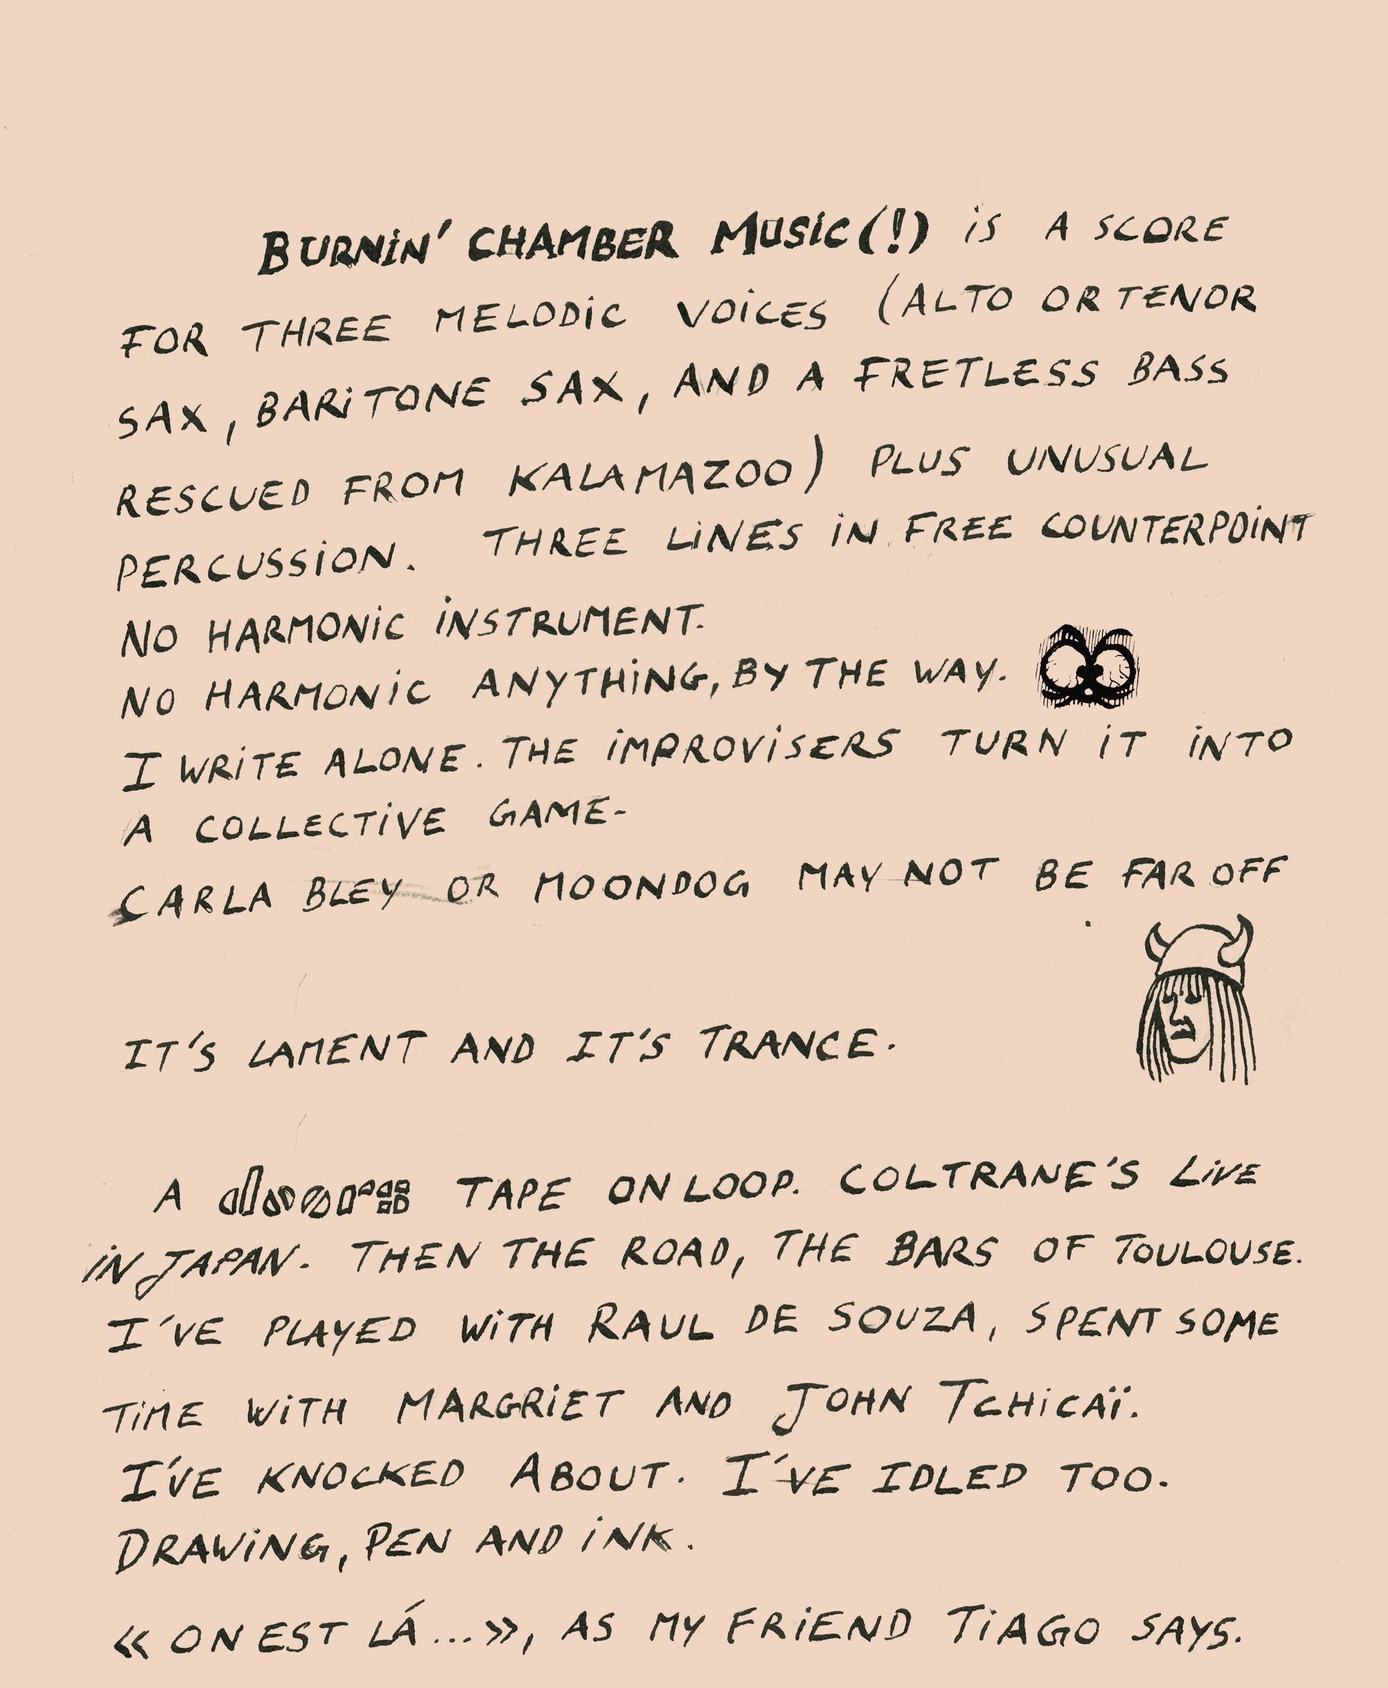
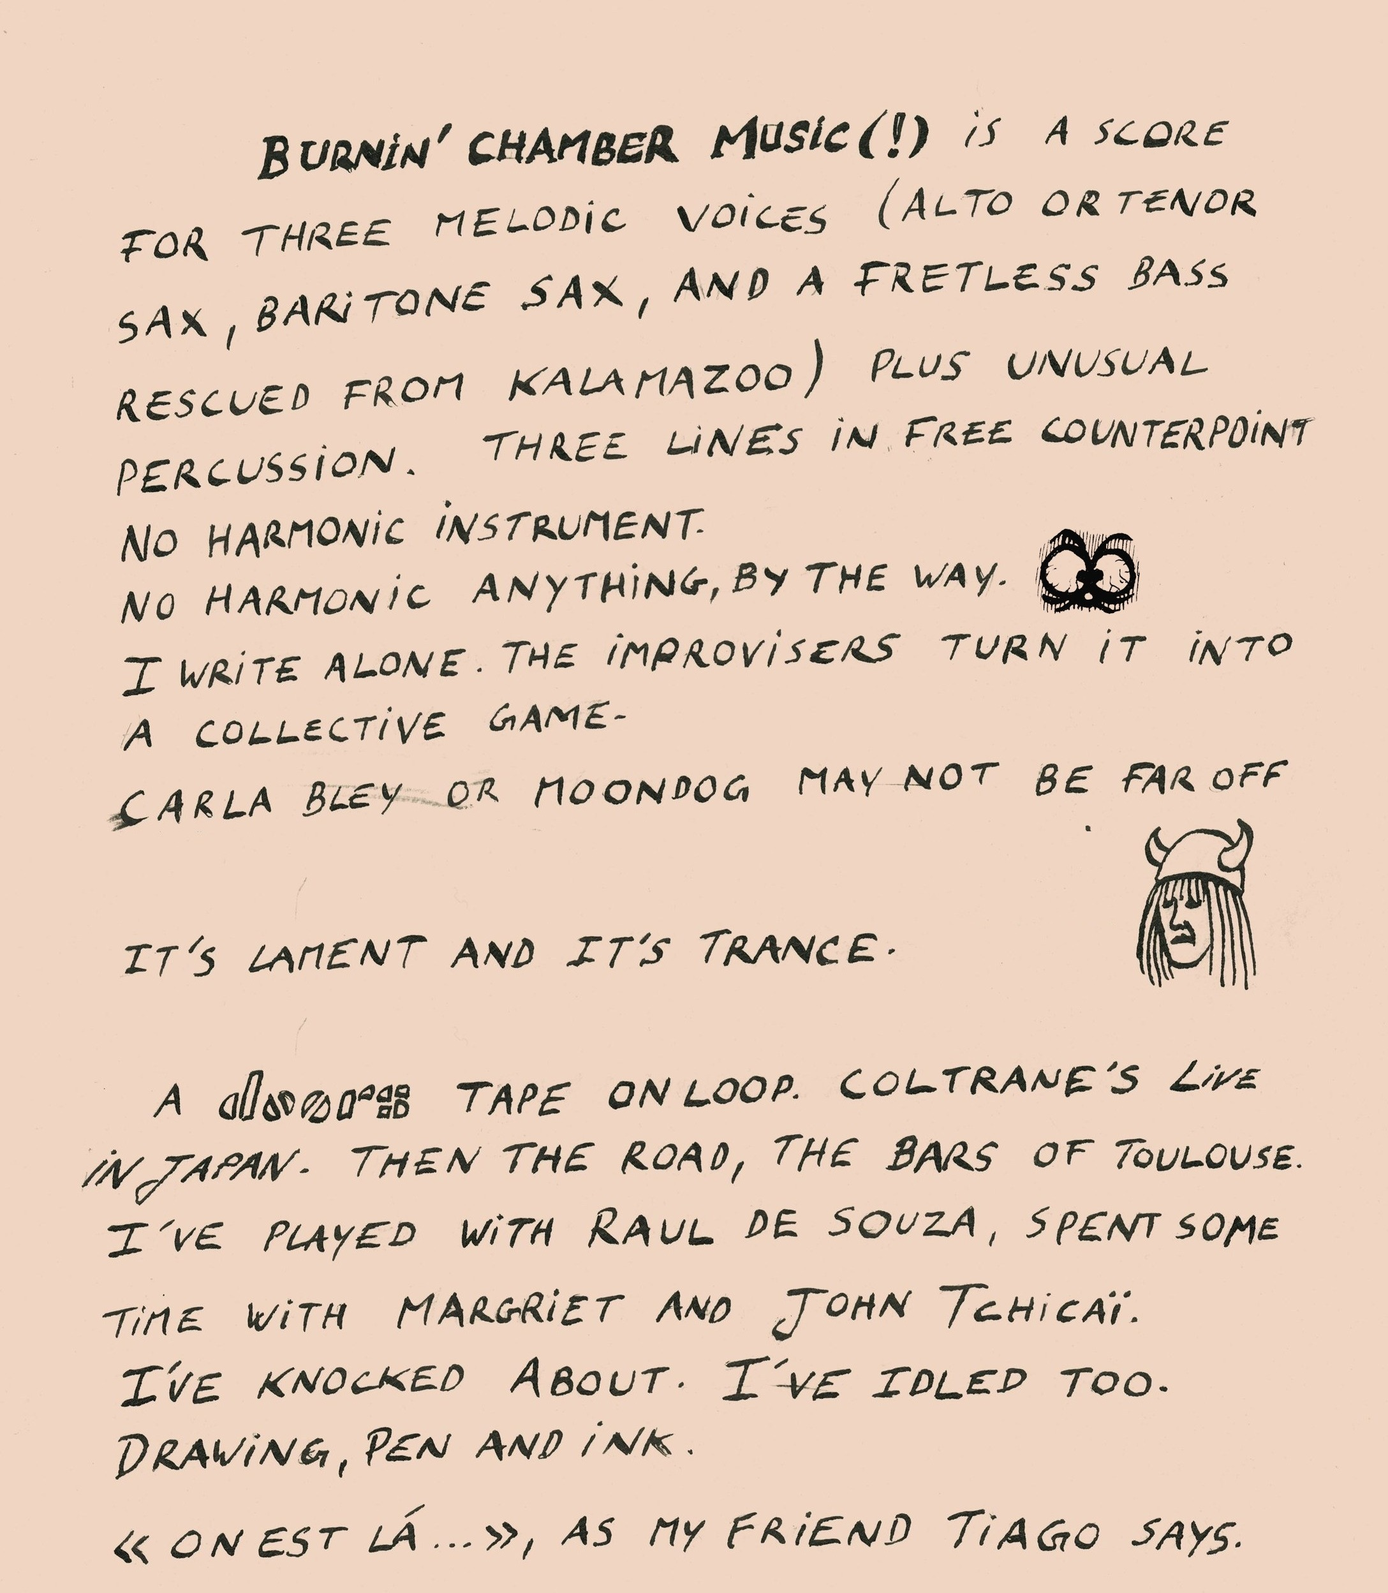
Make the frame fit on mobile without scrolling (not just "reachable by scroll")
- Tightened nav.menu on mobile (badges 42->30px, index badge 56->40px,
  tighter gap/padding) - directly requested, frees up real room for
  the frame above the fixed bandeau
- Re-measured real nav height after tightening and recalibrated every
  padding-bottom / .frame-page dvh-cap tier from it (breakpoints now
  320/456px, matching actual wrap points)
- Fixed a cascade bug: the new .frame-page height-cap rules had the
  same selector/specificity as the pre-existing base rule but came
  BEFORE it in the file, so the base rule silently won on source
  order and the cap never applied - moved the cap rules after it
- Generalized the dvh-based frame-page height cap (previously
  comodoro-page only) to every page with a frise, since comodoro's
  nav height turned out to match the generic tiers almost exactly
  once tightened - dropped the now-redundant comodoro-specific
  duplicate rules
- Converted a few mobile image caps (contact-art, codex-art-mobile)
  from vw to cqw so they keep scaling with the frame once its size
  depends on viewport height, not just width - this was causing
  internal frame-content overflow once the frame started actually
  shrinking
- Trimmed argumentum.jpg's oversized top margin (~150px) and nudged
  contact-page's mobile spacing tighter for the same reason
- audio.html keeps its old (uncapped) sizing: its custom player has
  fixed-pixel controls that can't shrink to frame-fit without
  breaking, so that one page still scrolls on short screens -
[…]

diff --git a/styles.css b/styles.css
@@ -56,30 +56,35 @@ nav.menu a:hover, nav.menu a:focus-visible { opacity: .6; }
 }
 
 @media (max-width: 640px) {
-  /* le bandeau (inchangé, forme et couleurs d'origine) peut s'étaler sur
-     plusieurs lignes sur un petit écran ; on réserve assez de place en bas
-     de page pour qu'il ne cache jamais le contenu, quel que soit le nombre
-     de lignes sur lesquelles il s'étale, même tout en bas de page (le
-     cadre doit rester intégralement visible au scroll). Paliers et
-     valeurs mesurés directement (hauteur réelle de nav.menu, pire cas sur
-     les 5 pages contact/codex/audio/video/agenda) à chaque largeur de
-     320 à 640px, + ~15px de marge - les seuils précédents (361/540px,
-     210/160px) ne correspondaient pas aux vrais points de repli de la
-     nav et laissaient jusqu'à 33px de bandeau recouvrir le bas du cadre
-     même après un scroll complet. */
-  body:has(nav.menu) { padding-bottom: 365px; }
-  /* "BACK TO INDEX" est nettement plus grand que les autres badges du
-     bandeau ; sur petit écran ça prend trop de place en hauteur. */
-  nav.menu a[href^="index"] img { height: 56px; }
+  /* bandeau resserré sur mobile : on veut que le cadre tienne au-dessus
+     sans scroller, donc moins le bandeau prend de place, plus c'est
+     possible. Badges et espacement réduits par rapport au desktop. */
+  nav.menu { gap: .35rem; padding: .5rem; }
+  nav.menu a img { height: 30px; }
+  nav.menu a[href^="index"] img { height: 40px; }
 }
-@media (min-width: 338px) and (max-width: 640px) {
-  body:has(nav.menu) { padding-bottom: 260px; }
+
+@media (max-width: 640px) {
+  /* le bandeau (resserré ci-dessus) peut encore s'étaler sur plusieurs
+     lignes sur un petit écran ; on réserve assez de place en bas de page
+     pour qu'il ne cache jamais le contenu, même tout en bas de page (le
+     cadre doit rester intégralement visible). Paliers et valeurs
+     mesurés directement (hauteur réelle de nav.menu une fois resserré,
+     pire cas sur contact/codex/audio/video/agenda/comodoro/galerie) à
+     chaque largeur de 300 à 640px, + ~15px de marge. */
+  body:has(nav.menu) { padding-bottom: 180px; }
+  /* le plafond de hauteur de .frame-page qui va avec cette réserve vit
+     plus bas dans le fichier, juste après la règle de base de
+     .frame-page (même sélecteur, même spécificité : il doit venir
+     APRÈS dans le fichier pour gagner le cascade, sinon la base
+     l'emporte via l'ordre de source et ignore silencieusement le
+     plafond - piège vécu ici même). */
 }
-@media (min-width: 461px) and (max-width: 640px) {
-  body:has(nav.menu) { padding-bottom: 210px; }
+@media (min-width: 320px) and (max-width: 640px) {
+  body:has(nav.menu) { padding-bottom: 145px; }
 }
-@media (min-width: 623px) and (max-width: 640px) {
-  body:has(nav.menu) { padding-bottom: 160px; }
+@media (min-width: 456px) and (max-width: 640px) {
+  body:has(nav.menu) { padding-bottom: 110px; }
 }
 
 @media (max-width: 640px) {
@@ -130,6 +135,35 @@ nav.menu a:hover, nav.menu a:focus-visible { opacity: .6; }
    que .bandcamp-wrap - plafonné à 950px - ait la place d'atteindre son
    propre plafond), pour que le cadre ait la même taille sur toutes. */
 .frame-page { position: relative; width: min(96vw, 1350px); aspect-ratio: 6994 / 9882; margin: 2.5rem auto 1rem; background: url(cadre.jpg?v=5) center / 100% 100% no-repeat; }
+/* mobile : on veut voir le cadre ENTIER sans scroller, pas juste
+   "accessible en scrollant" - on plafonne sa taille à ce qui tient
+   réellement au-dessus du bandeau fixe (hauteur mesurée du bandeau,
+   cf. réserve de padding-bottom plus haut, + 56px de marge propre à
+   .frame-page ci-dessus + 10px de sécurité). Même sélecteur/spécificité
+   que la règle de base : DOIT rester après elle dans le fichier pour
+   gagner le cascade (sinon la base l'emporte via l'ordre de source et
+   ce plafond est silencieusement ignoré). Généralisé à toutes les
+   pages à frise, comodoro-page (8 liens, replie un cran plus large)
+   compris - mêmes valeurs mesurées pour son dernier palier (456px). */
+@media (max-width: 640px) {
+  .frame-page { width: min(96vw, 1350px, calc((100dvh - 230px) / 1.4131)); }
+}
+@media (min-width: 320px) and (max-width: 640px) {
+  .frame-page { width: min(96vw, 1350px, calc((100dvh - 195px) / 1.4131)); }
+}
+@media (min-width: 456px) and (max-width: 640px) {
+  .frame-page { width: min(96vw, 1350px, calc((100dvh - 160px) / 1.4131)); }
+}
+/* exception : audio.html embarque un lecteur custom (boutons/curseurs en
+   pixels fixes, pas juste une image) qui ne peut pas rétrécir en dessous
+   d'une taille fonctionnelle sans devenir inutilisable - le plafonner
+   comme les autres pages le ferait déborder bien plus que les quelques
+   px gérables ailleurs. On revient à la largeur simple (vw), cette page
+   garde un léger scroll sur les tout petits écrans plutôt qu'un lecteur
+   cassé. Plus spécifique que .frame-page seul : gagne malgré l'ordre. */
+@media (max-width: 640px) {
+  body.audio-page .frame-page { width: min(96vw, 1350px); }
+}
 /* le cartouche : bande vide entre les deux filets ornés en haut du cadre */
 .frame-title { position: absolute; left: 3.58%; top: 4.68%; width: 88.65%; height: 5.26%; display: flex; align-items: center; justify-content: center; }
 .frame-title img { max-width: 100%; max-height: 100%; object-fit: contain; }
@@ -684,7 +718,7 @@ body.video-page .frame-content { gap: .75rem; justify-content: flex-start; paddi
      seulement par la largeur — un % du cadre suit les deux cas, un vw
      (lié au viewport) ne suivrait que le premier. */
   .comodoro-art { width: auto; height: auto; max-width: 56%; max-height: 34%; }
-  .codex-art-mobile { display: block; width: auto; height: auto; max-width: 74vw; max-height: 45vw; }
+  .codex-art-mobile { display: block; width: auto; height: auto; max-width: 74cqw; max-height: 45cqw; }
   /* cqw (largeur réelle de .frame-content), pas vw : sur un écran très
      étroit le texte/la flèche à plancher fixe (1rem/28px) ne rétrécissaient
      plus assez vite, et le contenu dépassait la zone noire du cadre -
@@ -712,7 +746,7 @@ body.video-page .frame-content { gap: .75rem; justify-content: flex-start; paddi
   /* les 3 liens sociaux + le corbac dépassaient légèrement la zone noire
      du cadre, forçant un petit scroll interne inutile. Resserré encore
      (gap .5rem) depuis l'ajout du lien mentions légales, un 5e élément. */
-  body.contact-page .frame-content { gap: .5rem; padding-top: .4rem; padding-bottom: .4rem; }
+  body.contact-page .frame-content { gap: .3rem; padding-top: .2rem; padding-bottom: .2rem; }
   /* rapproche le lien "Bandcamp" du lecteur agrandi, pour regagner un peu
      de hauteur sur les écrans mobiles les plus courts. */
   body.audio-page .frame-content { gap: .5rem; padding-top: .4rem; padding-bottom: .4rem; }
@@ -750,7 +784,11 @@ body.video-page .frame-content { gap: .75rem; justify-content: flex-start; paddi
    déjà masqués dès 640px (plus de collision à gérer ici). Doit suivre
    le bloc ≤640px (même règle de cascade que .comodoro-art ci-dessus). */
 @media (max-width: 360px) {
-  .codex-art-mobile { max-height: 27vw; }
+  .codex-art-mobile { max-height: 27cqw; }
+  /* dernier cran : sur les tout petits écrans (ex. iPhone SE 1e gén.,
+     320px), le plancher de .content-link (1rem) + les 3 liens contact
+     dépassaient encore légèrement malgré le gap déjà réduit ci-dessus. */
+  body.contact-page .content-link { font-size: .85rem; }
 }
 @media (max-width: 360px) {
   .bcm-cover { width: min(24%, 120px); }
@@ -789,7 +827,12 @@ body.video-page .frame-content { gap: .75rem; justify-content: flex-start; paddi
      hauteur à 44vw mais gardait la largeur à 100%, déformant l'image -
      resté invisible tant que la peinture du corbeau (plus haute que ce
      pour quoi 44vw avait été calé à l'origine) n'avait pas été ajoutée. */
-  .contact-art { width: auto; max-height: 62vw; }
+  /* cqw (largeur réelle de .frame-content) et non vw : depuis que .frame-page
+     peut être plafonnée par la hauteur d'écran (voir plus haut, "voir le
+     cadre entier sans scroller"), sa largeur réelle peut être bien plus
+     petite que ce que vw suppose - un max-height en vw ne rétrécissait
+     plus avec elle et débordait de .frame-content sur écran court. */
+  .contact-art { width: auto; max-height: 62cqw; }
 }
 
 /* page comodoro (mobile) : doit tenir sur un seul écran, sans aucun scroll.
@@ -801,25 +844,14 @@ body.video-page .frame-content { gap: .75rem; justify-content: flex-start; paddi
    mobile) : normalement le cadre ne dépend que de la largeur (aspect-ratio
    fixe), ici on ajoute un troisième plafond basé sur la hauteur. */
 @media (max-width: 640px) {
-  /* comodoro.html a 7 liens dans la nav (contrairement aux 6 des autres
-     pages, puisque comodoro n'est le lien "retour" d'aucune d'elles) : son
-     bandeau replié est donc plus haut (jusqu'à 294px mesuré à 320px de
-     large) que les 300px déjà réservés ailleurs - 230px était insuffisant
-     et laissait le bandeau recouvrir le bas du cadre. */
-  body.comodoro-page:has(nav.menu) { padding-bottom: 310px; }
-  /* +56px = la marge propre de .frame-page (2.5rem en haut + 1rem en
-     bas, ligne ~125) : le budget de hauteur doit aussi lui faire de la
-     place, sinon le cadre déborde quand même de 56px sous le plafond
-     visé malgré une réserve par ailleurs correcte. */
-  body.comodoro-page .frame-page { width: min(96vw, 1350px, calc((100dvh - 366px) / 1.4131)); }
-  /* comodoro.html seul (pas galerie.html/-2) a aussi le lien mobile-only
-     "Imagines" (8 badges au lieu de 7) ⇒ bandeau replié un peu plus haut
-     encore - léger supplément au-delà des paliers partagés ci-dessus. */
-  body.comodoro-page:not(.galerie-page):has(nav.menu) { padding-bottom: 335px; }
-  body.comodoro-page:not(.galerie-page) .frame-page { width: min(96vw, 1350px, calc((100dvh - 391px) / 1.4131)); }
-  /* idem pour le texte (cqw, relatif à la largeur réelle de .frame-content,
-     pas au viewport) : sur un écran très court, le cadre devient petit et
-     le texte à taille fixe ne tiendrait plus. */
+  /* comodoro.html a 8 liens dans la nav (7 + le lien mobile-only
+     "Imagines"), contre 6-7 pour les autres pages à frise : son bandeau
+     replié garde la même hauteur par palier que la règle générique
+     (nav resserrée ci-dessus), juste avec le dernier palier qui démarre
+     un peu plus tard (456px au lieu de 435px) - mesuré directement,
+     couvert par le palier générique min-width:456px (voir plus haut),
+     donc aucune règle dédiée n'est nécessaire ici pour le bandeau.
+     Le reste ci-dessous est spécifique au contenu de cette page. */
   body.comodoro-page .frame-content p { font-size: max(.58rem, 4.3cqw); }
   /* space-between (pas flex-start, la valeur générique ≤640px) : étale les
      4 blocs sur toute la hauteur du cadre au lieu de les tasser en haut en
@@ -829,31 +861,6 @@ body.video-page .frame-content { gap: .75rem; justify-content: flex-start; paddi
   /* le 1er dessin (portrait "soleil") agrandi par rapport au 2nd - :first-of-type
      cible le premier <img> enfant sans toucher au balisage. */
   .comodoro-art:first-of-type { max-width: 64%; max-height: 37%; }
-}
-/* même logique de paliers que la nav générale : la nav à 7 liens de
-   comodoro se replie sur moins de lignes à mesure que l'écran s'élargit
-   (243px à 361-413px, 191px à 414-599px, 140px à 600px+). Le plafond de
-   hauteur de .frame-page (ligne ~803) doit suivre les mêmes paliers,
-   sinon il continue de réserver seulement 230px : sur un écran bas où
-   le bandeau replié dépasse cette valeur (jusqu'à 310px), le cadre
-   déborde dessous et se fait recouvrir par le bandeau fixe. */
-@media (min-width: 361px) and (max-width: 640px) {
-  body.comodoro-page:has(nav.menu) { padding-bottom: 260px; }
-  body.comodoro-page .frame-page { width: min(96vw, 1350px, calc((100dvh - 316px) / 1.4131)); }
-  body.comodoro-page:not(.galerie-page):has(nav.menu) { padding-bottom: 285px; }
-  body.comodoro-page:not(.galerie-page) .frame-page { width: min(96vw, 1350px, calc((100dvh - 341px) / 1.4131)); }
-}
-@media (min-width: 414px) and (max-width: 640px) {
-  body.comodoro-page:has(nav.menu) { padding-bottom: 210px; }
-  body.comodoro-page .frame-page { width: min(96vw, 1350px, calc((100dvh - 266px) / 1.4131)); }
-  body.comodoro-page:not(.galerie-page):has(nav.menu) { padding-bottom: 235px; }
-  body.comodoro-page:not(.galerie-page) .frame-page { width: min(96vw, 1350px, calc((100dvh - 291px) / 1.4131)); }
-}
-@media (min-width: 600px) and (max-width: 640px) {
-  body.comodoro-page:has(nav.menu) { padding-bottom: 160px; }
-  body.comodoro-page .frame-page { width: min(96vw, 1350px, calc((100dvh - 216px) / 1.4131)); }
-  body.comodoro-page:not(.galerie-page):has(nav.menu) { padding-bottom: 185px; }
-  body.comodoro-page:not(.galerie-page) .frame-page { width: min(96vw, 1350px, calc((100dvh - 241px) / 1.4131)); }
 }
 
 /* page comodoro (ordinateur) : les deux portraits + le texte dépassaient
@@ -942,7 +949,17 @@ body.lightbox-locked { overflow: hidden; }
 @media (max-width: 640px) {
   .galerie-pagenav { display: none; }
   .galerie-page nav.menu { display: flex; }
-  .galerie-page:has(nav.menu) { padding-bottom: 280px; }
+  /* même paliers que la règle générique (nav resserrée) - il faut
+     redéclarer ici avec le même sélecteur .galerie-page:has(nav.menu)
+     pour battre la ligne 914 (toujours active, padding-bottom:0),
+     plutôt que la règle générique body:has(nav.menu) moins spécifique. */
+  .galerie-page:has(nav.menu) { padding-bottom: 180px; }
+}
+@media (min-width: 320px) and (max-width: 640px) {
+  .galerie-page:has(nav.menu) { padding-bottom: 145px; }
+}
+@media (min-width: 456px) and (max-width: 640px) {
+  .galerie-page:has(nav.menu) { padding-bottom: 110px; }
 }
 
 /* page 2 n'a que 3 dessins (une seule rangée) - sans ça .frame-content

diff --git a/argumentum-es.html b/argumentum-es.html
@@ -30,7 +30,7 @@
   <h1 class="visually-hidden">Argumentum — Comodoro Süleyman</h1>
   <img class="titre" src="titre-argumentum.png?v=2" alt="Argumentum" style="max-width:200px; display:block; margin:0 auto 1rem;">
   <div class="manuscript-wrap">
-    <img class="manuscript" src="argumentum.jpg?v=6" alt="Handwritten text: Burnin' Chamber Music (!) is a score for three melodic voices...">
+    <img class="manuscript" src="argumentum.jpg?v=7" alt="Handwritten text: Burnin' Chamber Music (!) is a score for three melodic voices...">
     <span class="manuscript-face-hit manuscript-face-hit-mask no-lightbox"><img class="manuscript-face" src="argumentum-face-mask.png" alt="Drawing: a small mask-like face with round eyes"></span>
     <span class="manuscript-face-hit manuscript-face-hit-viking no-lightbox"><img class="manuscript-face" src="argumentum-face-viking.png" alt="Drawing: a small face wearing a horned helmet"></span>
     <a class="manuscript-word-link manuscript-word-link-tiago" href="https://stonemilkrecords.com/jaco-fr/" target="_blank" rel="noopener" aria-label="Tiago — Stone Milk Records"></a>

diff --git a/argumentum-fr.html b/argumentum-fr.html
@@ -30,7 +30,7 @@
   <h1 class="visually-hidden">Argumentum — Comodoro Süleyman</h1>
   <img class="titre" src="titre-argumentum.png?v=2" alt="Argumentum" style="max-width:200px; display:block; margin:0 auto 1rem;">
   <div class="manuscript-wrap">
-    <img class="manuscript" src="argumentum.jpg?v=6" alt="Handwritten text: Burnin' Chamber Music (!) is a score for three melodic voices...">
+    <img class="manuscript" src="argumentum.jpg?v=7" alt="Handwritten text: Burnin' Chamber Music (!) is a score for three melodic voices...">
     <span class="manuscript-face-hit manuscript-face-hit-mask no-lightbox"><img class="manuscript-face" src="argumentum-face-mask.png" alt="Drawing: a small mask-like face with round eyes"></span>
     <span class="manuscript-face-hit manuscript-face-hit-viking no-lightbox"><img class="manuscript-face" src="argumentum-face-viking.png" alt="Drawing: a small face wearing a horned helmet"></span>
     <a class="manuscript-word-link manuscript-word-link-tiago" href="https://stonemilkrecords.com/jaco-fr/" target="_blank" rel="noopener" aria-label="Tiago — Stone Milk Records"></a>

diff --git a/argumentum-ro.html b/argumentum-ro.html
@@ -30,7 +30,7 @@
   <h1 class="visually-hidden">Argumentum — Comodoro Süleyman</h1>
   <img class="titre" src="titre-argumentum.png?v=2" alt="Argumentum" style="max-width:200px; display:block; margin:0 auto 1rem;">
   <div class="manuscript-wrap">
-    <img class="manuscript" src="argumentum.jpg?v=6" alt="Handwritten text: Burnin' Chamber Music (!) is a score for three melodic voices...">
+    <img class="manuscript" src="argumentum.jpg?v=7" alt="Handwritten text: Burnin' Chamber Music (!) is a score for three melodic voices...">
     <span class="manuscript-face-hit manuscript-face-hit-mask no-lightbox"><img class="manuscript-face" src="argumentum-face-mask.png" alt="Drawing: a small mask-like face with round eyes"></span>
     <span class="manuscript-face-hit manuscript-face-hit-viking no-lightbox"><img class="manuscript-face" src="argumentum-face-viking.png" alt="Drawing: a small face wearing a horned helmet"></span>
     <a class="manuscript-word-link manuscript-word-link-tiago" href="https://stonemilkrecords.com/jaco-fr/" target="_blank" rel="noopener" aria-label="Tiago — Stone Milk Records"></a>

diff --git a/argumentum.html b/argumentum.html
@@ -30,7 +30,7 @@
   <h1 class="visually-hidden">Argumentum — Comodoro Süleyman</h1>
   <img class="titre" src="titre-argumentum.png?v=2" alt="Argumentum" style="max-width:200px; display:block; margin:0 auto 1rem;">
   <div class="manuscript-wrap">
-    <img class="manuscript" src="argumentum.jpg?v=6" alt="Handwritten text: Burnin' Chamber Music (!) is a score for three melodic voices...">
+    <img class="manuscript" src="argumentum.jpg?v=7" alt="Handwritten text: Burnin' Chamber Music (!) is a score for three melodic voices...">
     <span class="manuscript-face-hit manuscript-face-hit-mask no-lightbox"><img class="manuscript-face" src="argumentum-face-mask.png" alt="Drawing: a small mask-like face with round eyes"></span>
     <span class="manuscript-face-hit manuscript-face-hit-viking no-lightbox"><img class="manuscript-face" src="argumentum-face-viking.png" alt="Drawing: a small face wearing a horned helmet"></span>
     <a class="manuscript-word-link manuscript-word-link-tiago" href="https://stonemilkrecords.com/jaco-fr/" target="_blank" rel="noopener" aria-label="Tiago — Stone Milk Records"></a>
